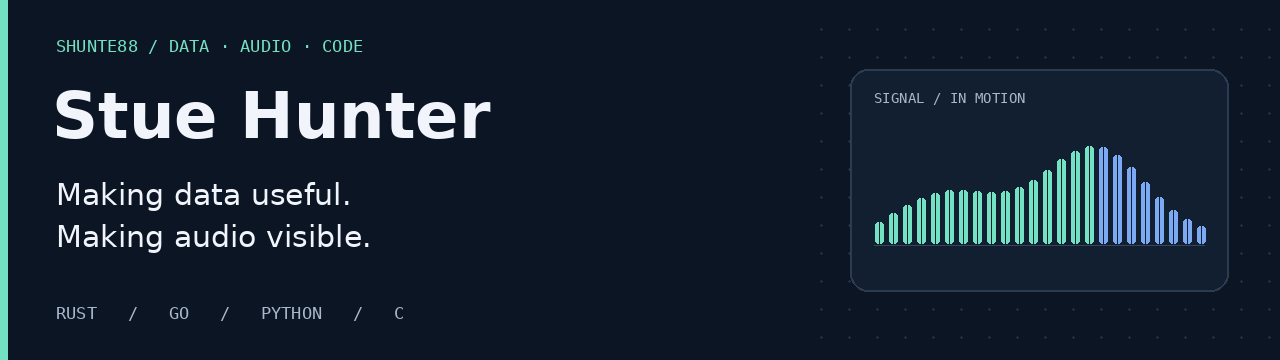
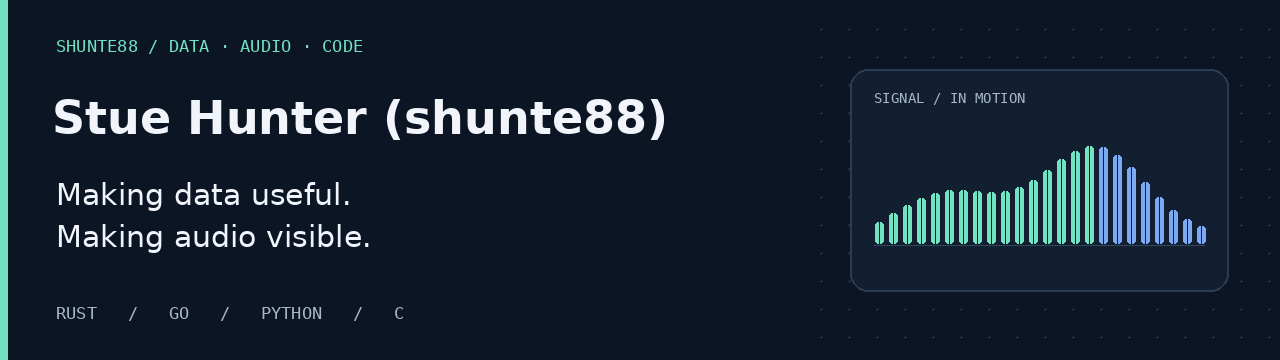
added flair

Changed region(s): [[0.0312, 0.2444, 0.5312, 0.3972]]

diff --git a/assets/generate-banner.py b/assets/generate-banner.py
@@ -25,7 +25,7 @@ for x in range(820, WIDTH, 28):
         draw.ellipse((x, y, x + 2, y + 2), fill="#233047")
 draw.rectangle((0, 0, 7, HEIGHT), fill=MINT)
 draw.text((56, 36), "SHUNTE88 / DATA · AUDIO · CODE", font=font(17, mono=True), fill=MINT)
-draw.text((52, 78), "Stue Hunter", font=font(64, bold=True), fill=WHITE)
+draw.text((52, 91), "Stue Hunter (shunte88)", font=font(46, bold=True), fill=WHITE)
 draw.text((56, 177), "Making data useful.", font=font(30), fill=WHITE)
 draw.text((56, 219), "Making audio visible.", font=font(30), fill=WHITE)
 draw.text((56, 303), "RUST   /   GO   /   PYTHON   /   C", font=font(17, mono=True), fill=MUTED)

diff --git a/README.md b/README.md
@@ -1,6 +1,6 @@
-![Stue Hunter — Making data useful. Making audio visible.](assets/profile-banner.gif)
+![Stue Hunter (shunte88) — Making data useful. Making audio visible.](assets/profile-banner.gif)
 
-## Hi, I'm Stue.
+## Hi, I'm shunte88.
 
 I build where **data, audio, and hardware meet** — from event-driven visualization servers to music displays powered by Rust and Go. A long-running curiosity for data, a keen ear for audio, and an eye for the details that make software useful.
 
@@ -12,9 +12,11 @@ I build where **data, audio, and hardware meet** — from event-driven visualiza
 
 | Project | What it brings together |
 | :--- | :--- |
+| **[vripr](https://github.com/shunte88/vripr)** | Rust and Audacity — vinyl digitization with track detection, Discogs metadata, and tagged export. |
+| **[vcw](https://github.com/shunte88/vcw)** | Rust and integrated audio recording — a vinyl ripping workflow with its own recording head. |
 | **[LyMonS](https://github.com/shunte88/LyMonS)** | Rust, OLED displays, and audio visualization — a music monitor with personality. |
-| **[RGB Clock](https://github.com/shunte88/rgbclock)** | Go and Raspberry Pi — music, weather, and live information on RGB matrix displays. |
 | **[Vision On](https://github.com/shunte88/visionon)** | C and server-sent events — streaming playback metrics for audio visualization. |
+| **[RGB Clock](https://github.com/shunte88/rgbclock)** | Go and Raspberry Pi — music, weather, and live information on RGB matrix displays. |
 
 ---
 
